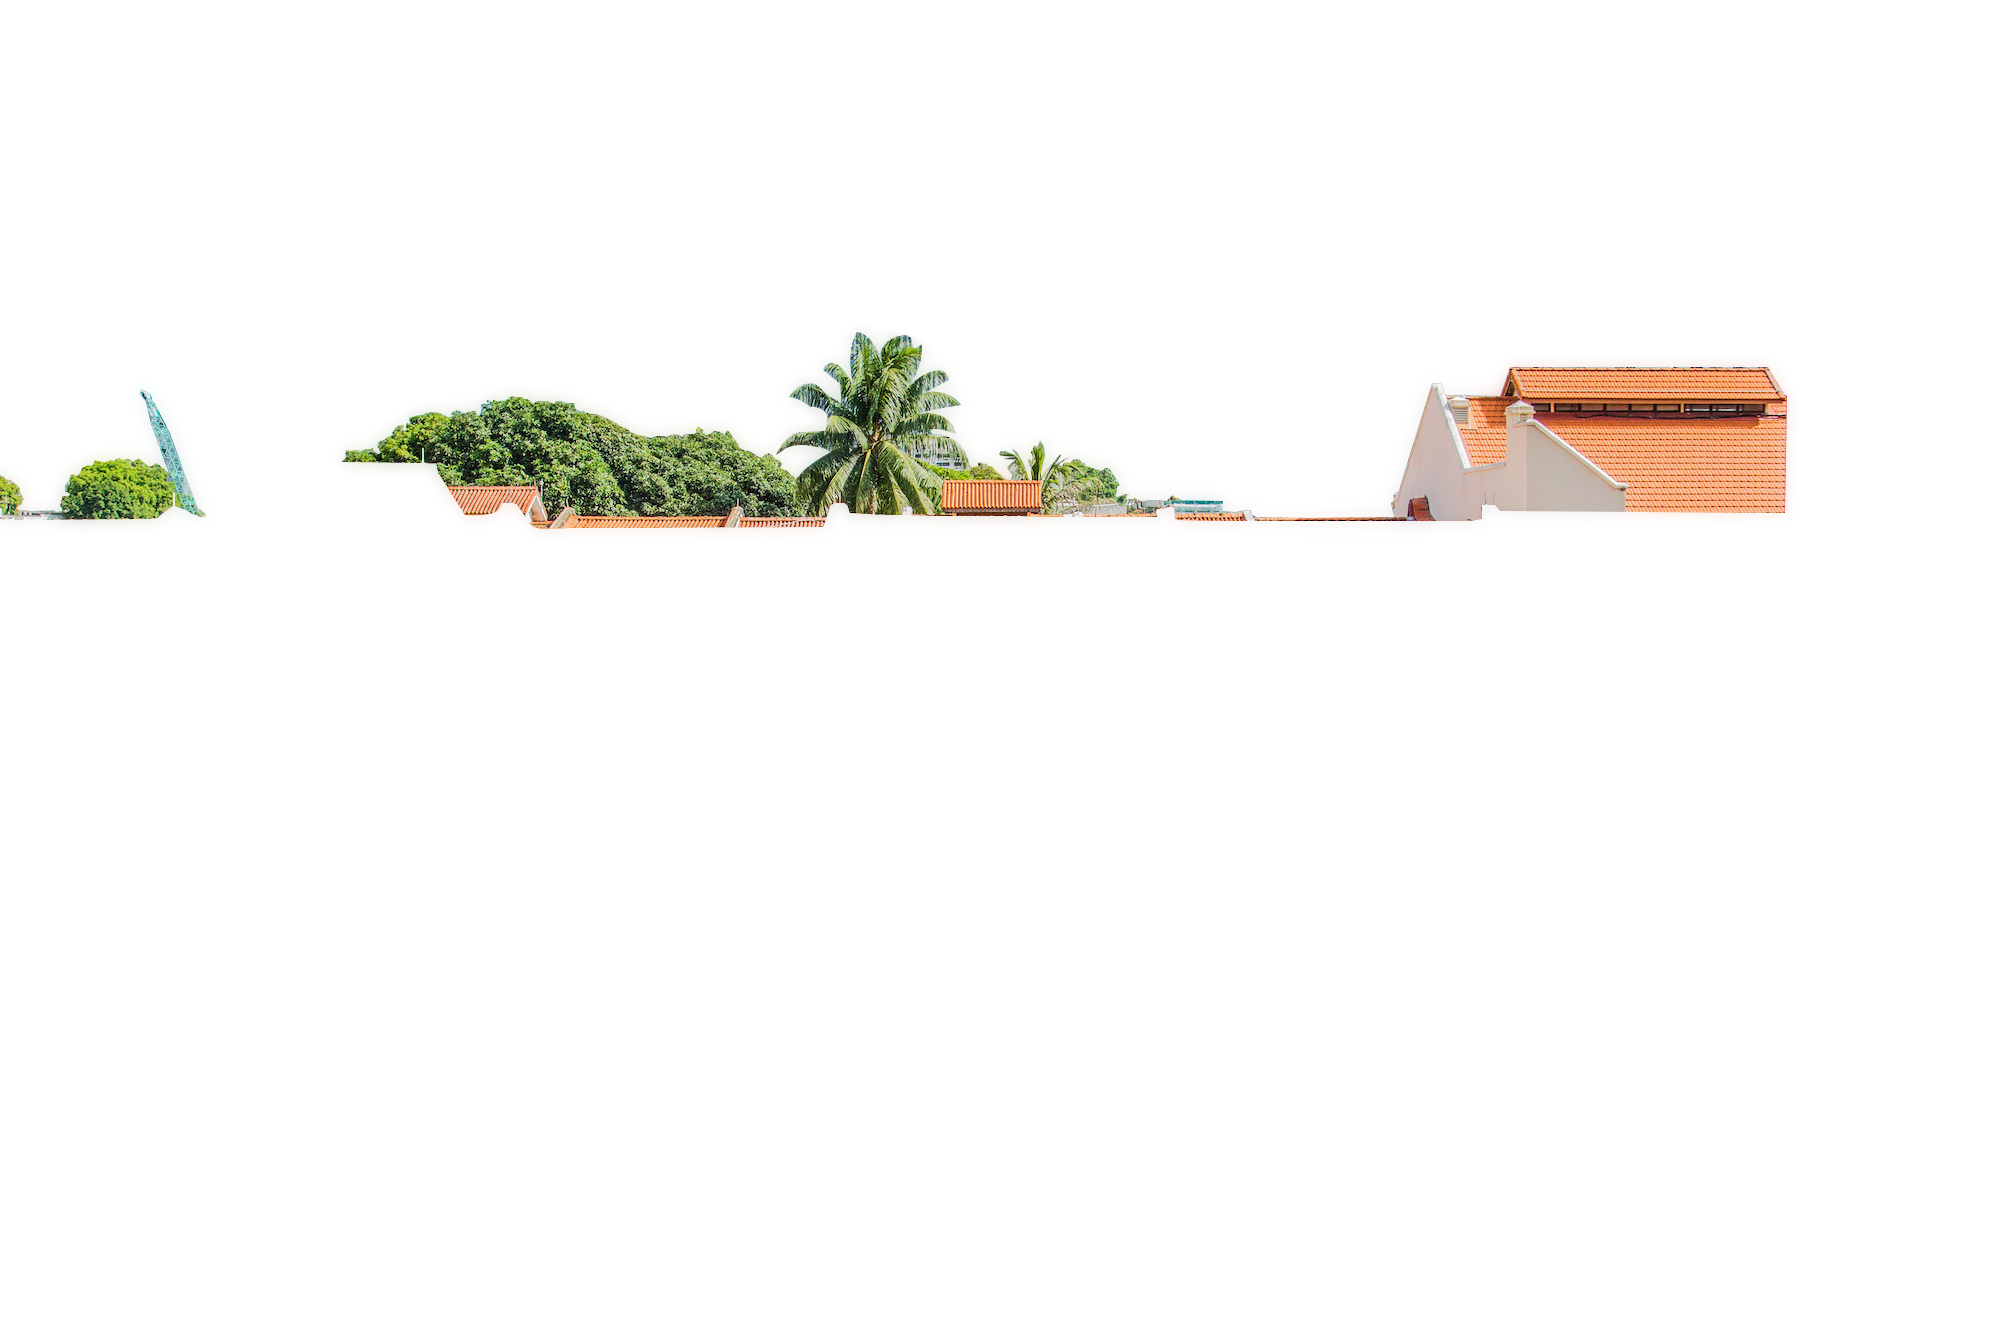
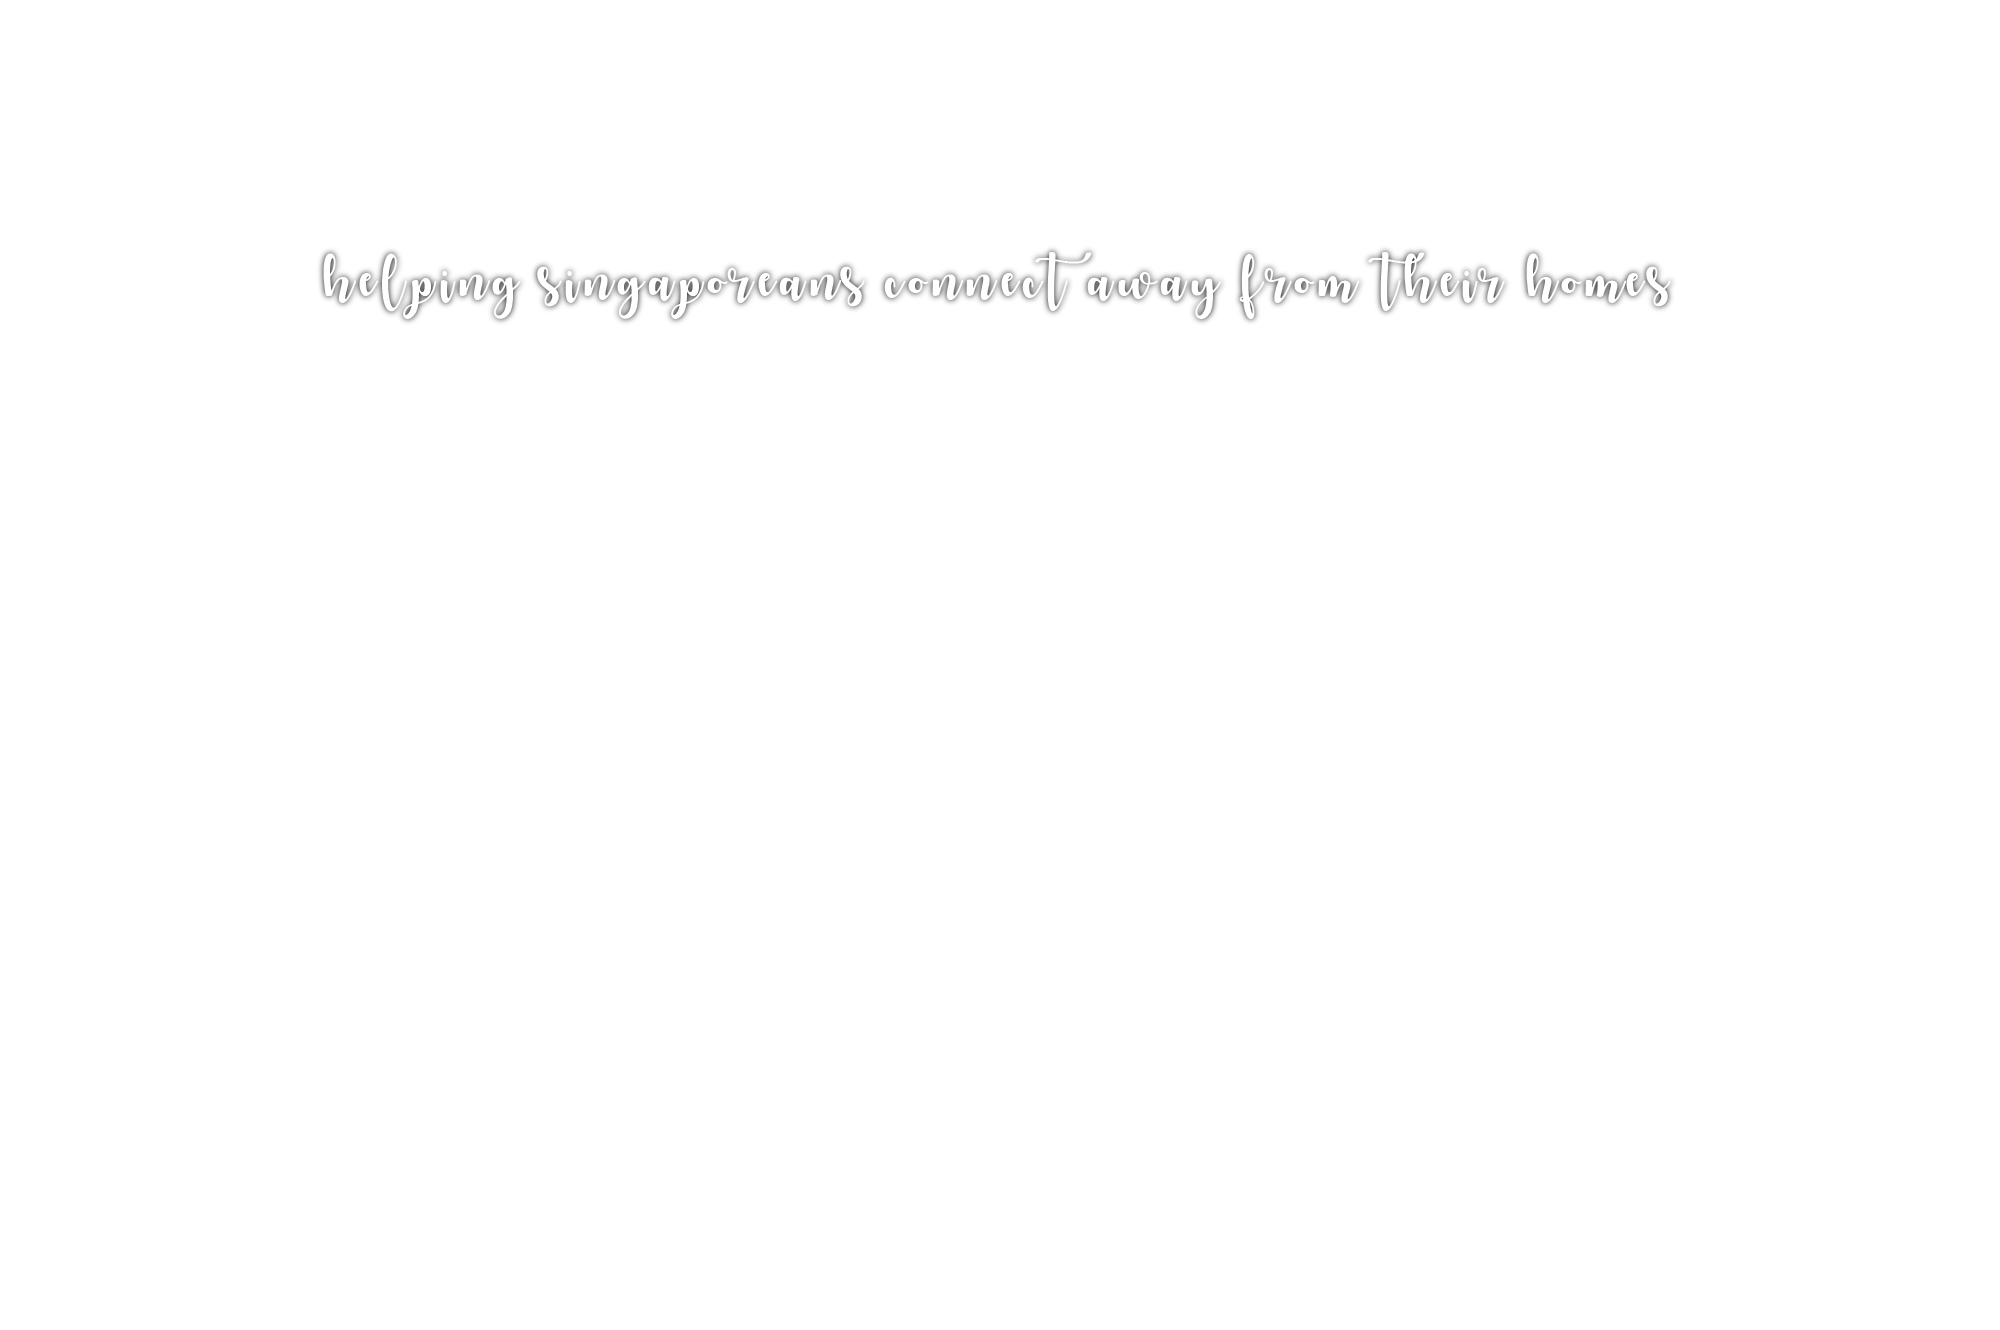
trishaw

Changed region(s): [[0.155, 0.185, 0.837, 0.4008], [0.682, 0.2774, 0.899, 0.4008], [0.0, 0.3083, 0.124, 0.4008]]

diff --git a/index.html b/index.html
@@ -1,7 +1,7 @@
 <!doctype html>
 <html>
     <head>
-        <title>This is the title of the webpage!</title>
+        <title>WGT ORDL O</title>
         <link rel="stylesheet" href="main.css">
     </head>
         <body>
@@ -19,9 +19,15 @@
                 <img src="layer 1.png" id="layer-1">
                 <img src="layer 2.png" id="layer-2">
                 <img src="layer 3.png" id="layer-3">
+                <img src="layer 4.png" id="layer-4">
             </section>
-            <div id="section-2">
+            <div id="section-2" class="section">
                 <h2>Who</h2>
+                <p>Lorem ipsum dolor sit amet, consectetur adipiscing elit, sed do eiusmod tempor incididunt ut labore et dolore magna aliqua. Ut enim ad minim veniam, quis nostrud exercitation ullamco laboris nisi ut aliquip ex ea commodo consequat. Duis aute irure dolor in reprehenderit in voluptate velit esse cillum dolore eu fugiat nulla pariatur. Excepteur sint occaecat cupidatat non proident, sunt in culpa qui officia deserunt mollit anim id est laborum.</p>
+                <img src="trishaw.png" id="trishaw">
+            </div>
+            <div id="section-3" class="section">
+                <h2>What</h2>
                 <p>Lorem ipsum dolor sit amet, consectetur adipiscing elit, sed do eiusmod tempor incididunt ut labore et dolore magna aliqua. Ut enim ad minim veniam, quis nostrud exercitation ullamco laboris nisi ut aliquip ex ea commodo consequat. Duis aute irure dolor in reprehenderit in voluptate velit esse cillum dolore eu fugiat nulla pariatur. Excepteur sint occaecat cupidatat non proident, sunt in culpa qui officia deserunt mollit anim id est laborum.</p>
 
             </div>
@@ -31,12 +37,16 @@
                 let layer_1 = document.getElementById('layer-1')
                 let layer_2 = document.getElementById('layer-2')
                 let layer_3 = document.getElementById('layer-3')
+                let trishaw = document.getElementById('trishaw')
 
                 window.addEventListener('scroll', function() {
                     let value = window.scrollY;
                     layer_0.style.top = value + 'px';
                     layer_1.style.top = value * 0.8 + 'px';
-                    layer_2.style.top = value * 0.4 + 'px';
+                    layer_2.style.top = value * 0.6 + 'px';
+                    layer_3.style.top = value * 0.4 + 'px';
+                    trishaw.style.top = value * 0.2 + 'px';
+                    trishaw.style.right = value * 0.5 + 'px';
                 })
             </script>
         </body>

diff --git a/main.css b/main.css
@@ -85,16 +85,61 @@ section img {
     object-fit: cover;
 }
 
-#section-2 {
+.section {
     position: relative;
     width: 100%;
-    height: 65vw;
-    background-color: #f0c560;
+    height: 100vh;
     display: flex;
     justify-content: center;
     align-items: center;
+    flex-direction: column;
+}
+
+#section-2 {
+    background-color: #f0c560;
 }
 
 #section-2 h2 {
-    font
+    font-family: 'Gotham';
+    font-weight: 400;
+    font-size: 3em;
+    padding-bottom: 1em;
+    z-index: 10;
+}
+
+#section-2 p {
+    font-family: 'Gotham';
+    font-weight: 200;
+    font-size: 2em;
+    text-align: center;
+    padding: 0 2em 0 2em;
+    z-index: 10;
+}
+
+#trishaw {
+    position: absolute;
+    top: 0px;
+    right: 0px;
+    width: 40%;
+    z-index: 0;
+    opacity: 0.3;
+}
+
+#section-3 {
+    background-color: #79ccf2;
+}
+
+#section-3 h2 {
+    font-family: 'Gotham';
+    font-weight: 400;
+    font-size: 3em;
+    padding-bottom: 1em;
+}
+
+#section-3 p {
+    font-family: 'Gotham';
+    font-weight: 200;
+    font-size: 2em;
+    text-align: center;
+    padding: 0 2em 0 2em;
 }
